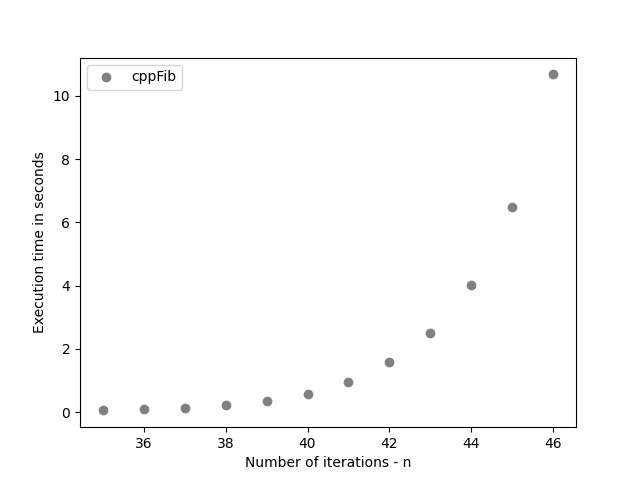
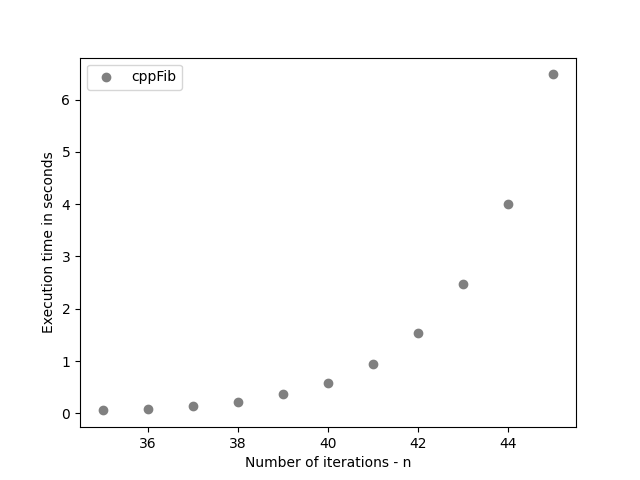
Commite after removing unnecessaary

diff --git a/Pyhton_Assignments/MA4/MA4_files/MA4.py b/Pyhton_Assignments/MA4/MA4_files/MA4.py
@@ -149,7 +149,7 @@ def plot_allinOne(purePy, numbaPy, cppPy):
     #plt.xticks([ele[0] for ele in time_stamps])
     #plt.yticks([ele[1] for ele in time_stamps])
     plt.scatter(*zip(*purePy), color="red", label="Pure Python Execution")
-    plt.scatter(*zip(*numbaPy), color="green", label="Numba Execution")
+    plt.scatter(*zip(*numbaPy), color="yellow", label="Numba Execution")
     plt.scatter(*zip(*cppPy), color="blue", label="CppRT Execution")
     plt.legend()
     plt.savefig("Facto_reuslts_for_AllinOne.png")
@@ -189,17 +189,17 @@ def main():
     '''
     import time
     print("\n **** Numba Py timings ****")
-    timeStamps_numba = fn_timing_on_fib(fib_numba_python, 35 ,46)
+    timeStamps_numba = fn_timing_on_fib(fib_numba_python, 35 ,45)
     plot_timings(timeStamps_numba, "numbPyFib")
     time.sleep(1)
 
     print("\n **** C++ Integratiopn timinings ****")
-    timeStamps_cpp = fn_timing_on_fib(fib, 35 ,46)
+    timeStamps_cpp = fn_timing_on_fib(fib, 35 ,45)
     plot_timings(timeStamps_cpp, "cppFib")
     time.sleep(1)
 
     print("\n **** Pure Python timinings ****")
-    timeStamps_purepy = fn_timing_on_fib(fib_pure_python, 35 ,46)
+    timeStamps_purepy = fn_timing_on_fib(fib_pure_python, 35 ,45)
     plot_timings(timeStamps_purepy, "purePyFib")
 
     plot_allinOne(timeStamps_purepy, timeStamps_numba, timeStamps_cpp)
